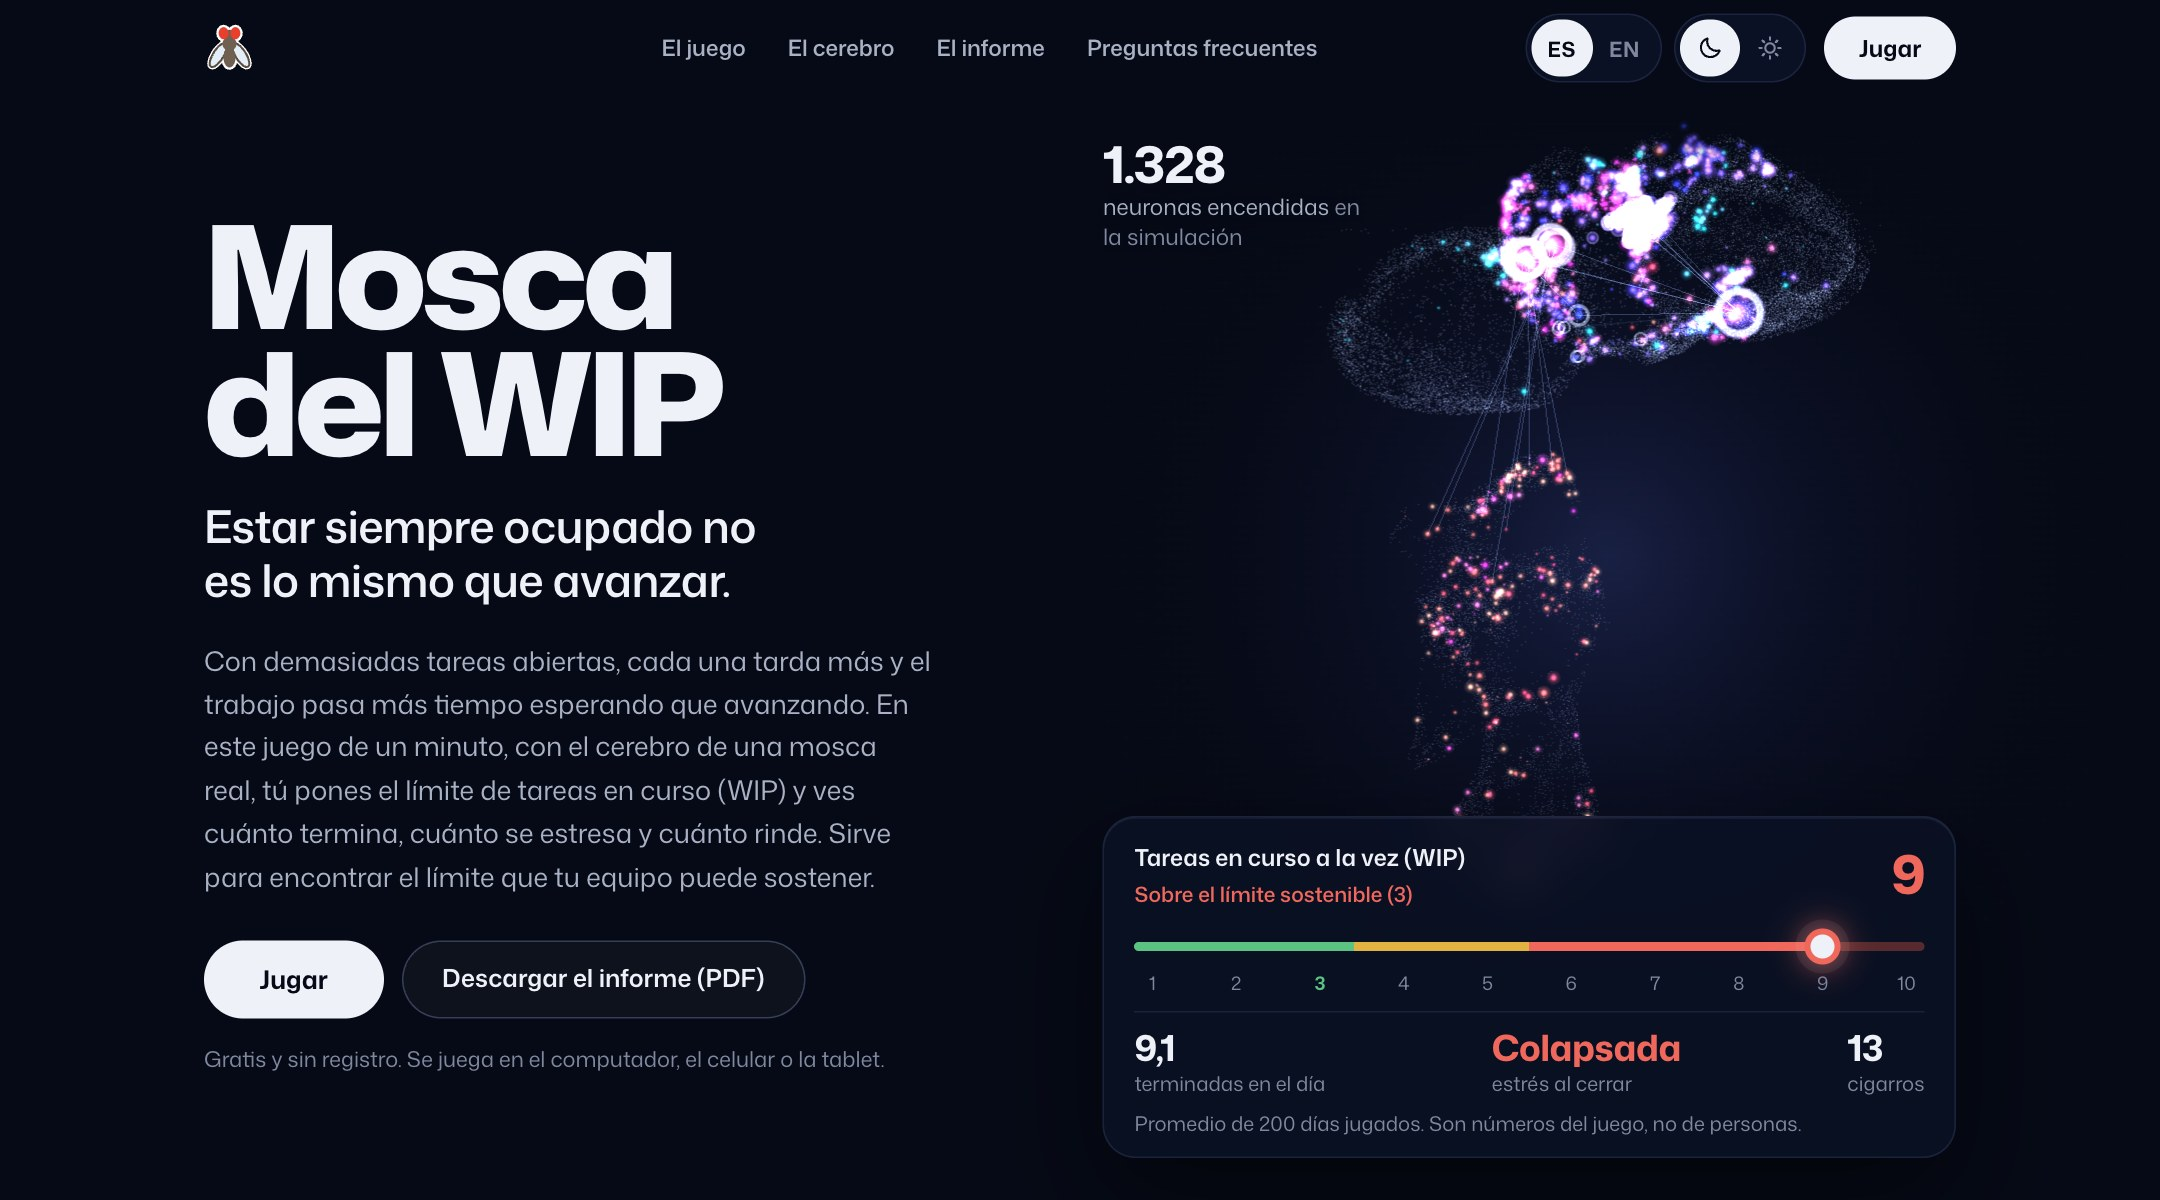
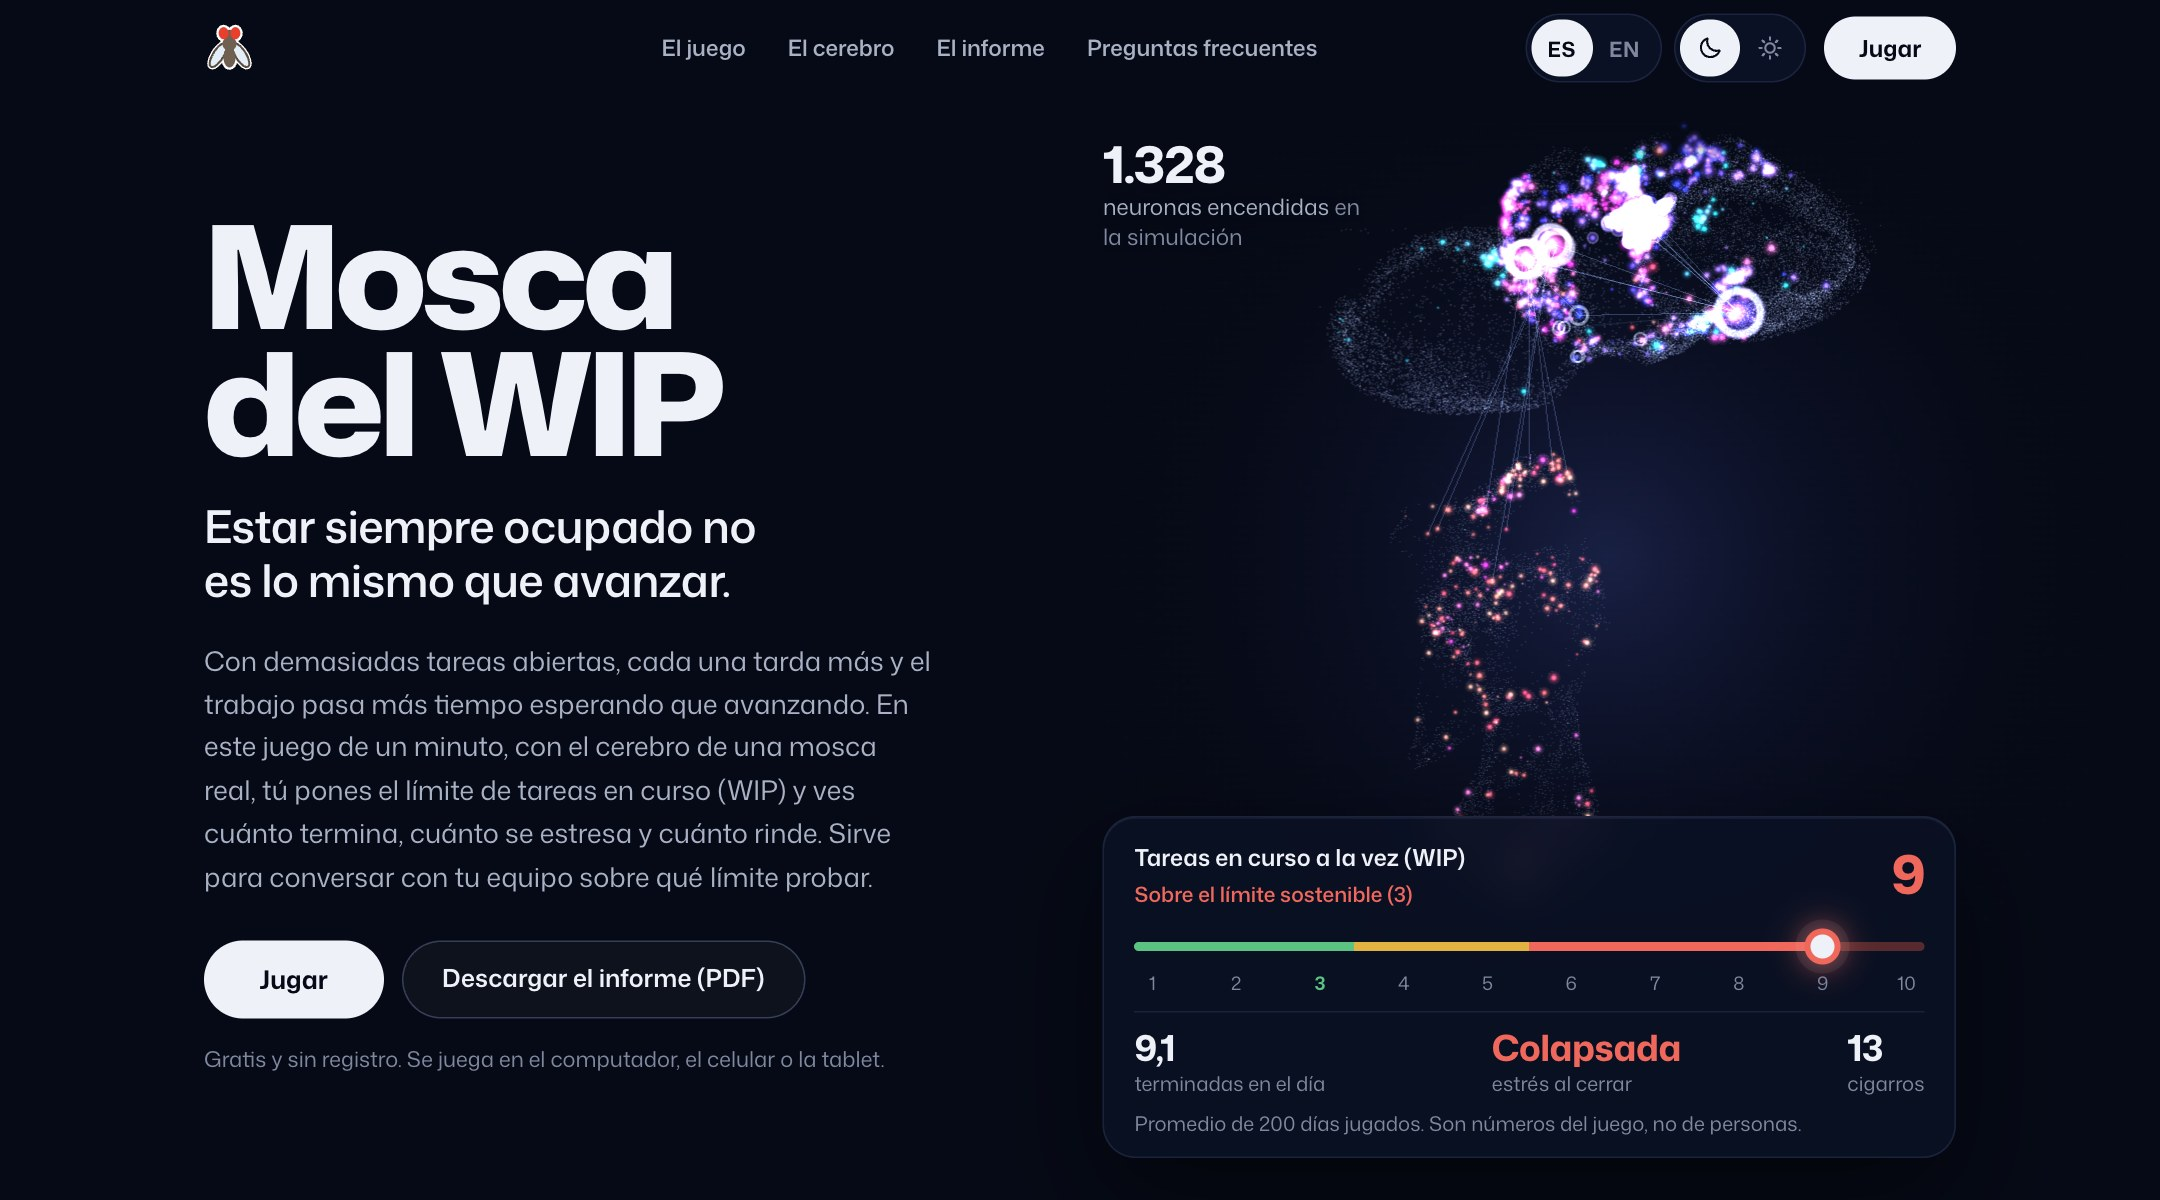
Portada: la presentación cierra con "conversar con tu equipo sobre qué límite probar"
La primera versión decía "Sirve para encontrar el límite que tu equipo puede
sostener", y la pregunta 3 de la misma página dice que el juego no da el
número de tu equipo. La frase nueva (en inglés, "It gets your team talking
about which limit to try") deja la portada igual en los 20 tamaños medidos.
Fotos del sitio del informe completo sacadas de nuevo; bitácora 5.2g con la
publicación de a841dc6 comprobada en el sitio real.

diff --git a/src/portada-textos.js b/src/portada-textos.js
@@ -20,7 +20,7 @@ export const INGLES = {
   // Presentación y consola
   lema: 'Being busy all the time isn’t the same as making progress.',
   queEs:
-    'With too many tasks open, each one takes longer and the work spends more time waiting than moving. In this one-minute game with the brain of a real fly, you set the limit on tasks in progress (WIP) and see how much she finishes, how stressed she gets and how much of each hour really counts. It helps you find the limit your team can sustain.',
+    'With too many tasks open, each one takes longer and the work spends more time waiting than moving. In this one-minute game with the brain of a real fly, you set the limit on tasks in progress (WIP) and see how much she finishes, how stressed she gets and how much of each hour really counts. It gets your team talking about which limit to try.',
   jugar: 'Play',
   descargar: 'Download the report (PDF)',
   gratis: 'Free, no sign-up. Plays on a computer, phone or tablet.',

diff --git a/index.html b/index.html
@@ -121,7 +121,7 @@
             Con demasiadas tareas abiertas, cada una tarda más y el trabajo pasa más tiempo
             esperando que avanzando. En este juego de un minuto, con el cerebro de una mosca real,
             tú pones el límite de tareas en curso (WIP) y ves cuánto termina, cuánto se estresa y
-            cuánto rinde. Sirve para encontrar el límite que tu equipo puede sostener.
+            cuánto rinde. Sirve para conversar con tu equipo sobre qué límite probar.
           </p>
           <div class="acciones">
             <a class="boton principal" href="/jugar/" data-jugar data-t="jugar">Jugar</a>
